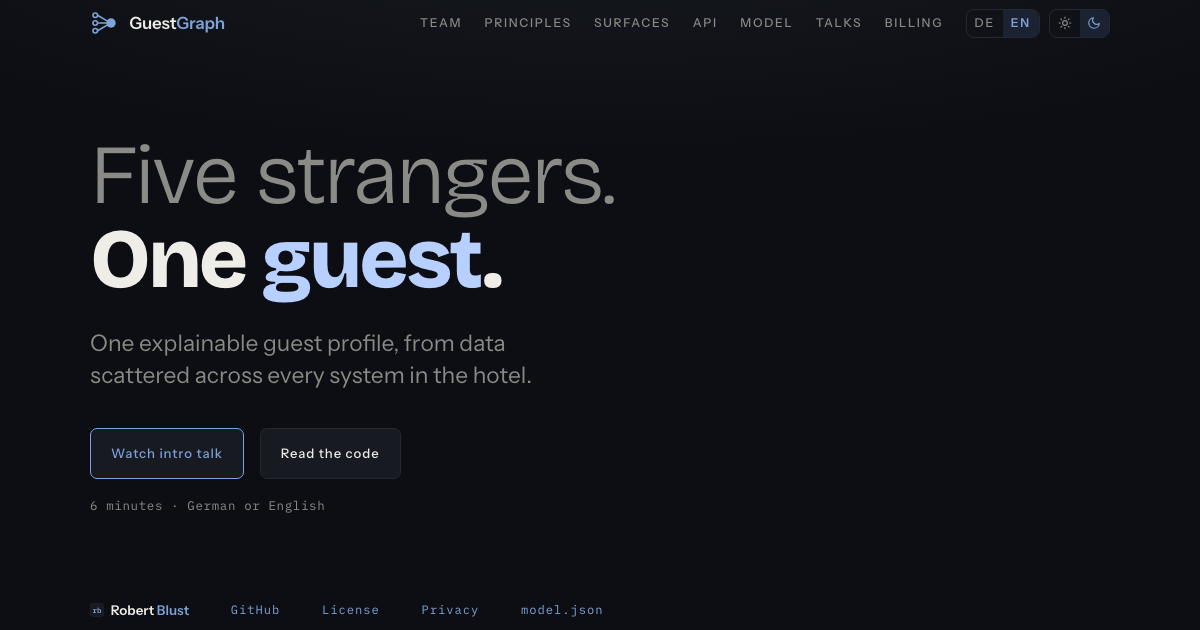
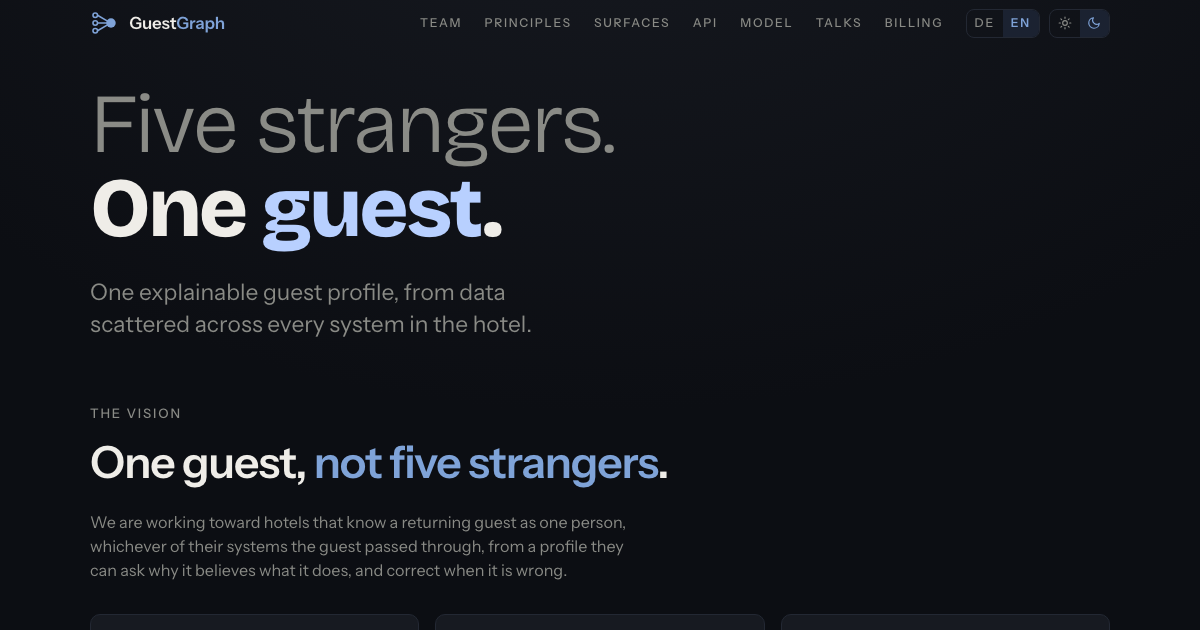
The home page opens on its vision and values
The headline said what GuestGraph is; nothing below it said what the vision behind it is, or
what the seven values are that the model itself states as we-never lines. Under the headline
and its tagline, index.html now carries a vision section and a values section, ported from
blust.ch's and companygraph.io's markup: a kicker, three tiles — Ask opens the chat, See the
model and Read the API link to the pages that show the whole graph and the two APIs — and a
values list. build/pages.mjs wires writeHome to fill both from model.json, with the same
German lookup /principles/ now uses, so the vision's heading and tagline and each value's name
and its never-line read in German too the moment a visitor switches, even before the page's own
kickers and tiles do. The values heading counts from the model rather than being typed by hand,
so it reads seven today and would read eight the day an eighth value is added.

The hero's two buttons and the "6 minutes · German or English" line are gone, not moved: a page
that opens on its vision and values does not need two links competing with them for the same
first screen, and the model and the API are now tiles instead of hero buttons. The talk is
reached from the nav's Talks link rather than a button of its own, so every check string,
og-recipe hide-rule comment and AGENTS.md/README.md sentence that named the removed buttons or
restated the talk's length from index.html is updated to say so. The page's own words — the
[…]

diff --git a/index.html b/index.html
@@ -318,12 +318,36 @@
     <div class="title">
       <h1 data-de="<span class='r70'>Fünf Fremde.</span><span class='rcl'>Ein <em>Gast</em>.</span>"><span class="r70">Five strangers.</span><span class="rcl">One <em>guest</em>.</span></h1>
       <p class="tagline" data-de="Ein erklärbares Gastprofil aus Daten, die über alle Systeme im Hotel verstreut sind.">One explainable guest profile, from data scattered across every system in the hotel.</p>
-      <div class="cta">
-        <a class="btn primary" href="talks/intro/" data-de="Einführungsvortrag ansehen">Watch intro talk</a>
-        <a class="btn" href="https://github.com/guestgraph/engine" data-de="Code lesen">Read the code</a>
-      </div>
-      <p class="ctameta mono" data-de="7 Minuten · Deutsch oder Englisch">6 minutes · German or English</p>
     </div>
+
+    <section class="sec" id="vision">
+      <p class="kicker">The vision</p>
+      <!-- vision:start -->
+      <h2 data-de="Ein Gast, <em>nicht fünf Fremde</em>.">One guest, <em>not five strangers</em>.</h2>
+      <p class="lede" data-de="Wir arbeiten darauf hin, dass Hotels einen wiederkehrenden Gast als eine Person kennen, gleich in welchem ihrer Systeme er erfasst wurde – mit einem Profil, das auf Nachfrage sagt, warum es annimmt, was es annimmt, und das sich korrigieren lässt, wenn es falsch liegt.">We are working toward hotels that know a returning guest as one person, whichever of their systems the guest passed through, from a profile they can ask why it believes what it does, and correct when it is wrong.</p>
+      <!-- vision:end -->
+      <div class="tiles">
+        <button class="tile" type="button" data-chat-open><b>Ask</b><span>An agent that answers only from the model, and names the evidence under each answer.</span><i>Open the chat →</i></button>
+        <a class="tile" href="model/"><b>See the model</b><span>What GuestGraph is, where it is going and how it works, drawn as the graph its files form.</span><i>Open the model →</i></a>
+        <a class="tile" href="api/"><b>Read the API</b><span>Everything the engine does, and the connector that fills it.</span><i>Open the API →</i></a>
+      </div>
+    </section>
+
+    <section class="sec" id="values">
+      <p class="kicker">What we hold to</p>
+      <!-- values:start -->
+      <h2>Seven values, each with the thing <em>we never do</em>.</h2>
+      <div class="values">
+        <a href="principles/#a-match-is-not-trusted-until-it-is-justified"><b data-de="Einem Treffer wird erst vertraut, wenn er begründet ist">A match is not trusted until it is justified</b><span data-de="Wir schalten nie eine Zusammenführung ein, ohne dass ein Mensch ihr ausdrücklich vertraut.">We never switch on a merge that no person asked to trust.</span></a>
+        <a href="principles/#every-merge-can-be-explained-and-undone"><b data-de="Jede Zusammenführung lässt sich erklären und zurücknehmen">Every merge can be explained and undone</b><span data-de="Wir liefern nie ein Verfahren zur Zusammenführung von Gästen aus, dessen Entscheide sich nicht nachlesen und zurücknehmen lassen.">We never ship a way of merging guests whose decisions cannot be read back and undone.</span></a>
+        <a href="principles/#everything-the-engine-does-is-on-its-api"><b data-de="Alles, was die Engine tut, läuft über ihre API">Everything the engine does is on its API</b><span data-de="Wir bauen nie eine Fähigkeit der Engine, die sich nur über einen Job, einen internen Aufruf oder die Datenbank erreichen lässt.">We never build an engine capability that can only be reached through a job, an internal call or the database.</span></a>
+        <a href="principles/#never-drop-what-can-be-parsed"><b data-de="Nie verwerfen, was sich parsen lässt">Never drop what can be parsed</b><span data-de="Wir verwerfen nie einen Datensatz, der sich parsen lässt, weil er anders aussieht, als wir erwartet haben.">We never discard a parseable record because it does not look the way we expected.</span></a>
+        <a href="principles/#store-what-happened-derive-who-it-was"><b data-de="Speichern, was geschah – ableiten, wer es war">Store what happened, derive who it was</b><span data-de="Wir überschreiben nie einen Quelldatensatz, um zu korrigieren, was im Profil eines Gastes steht.">We never overwrite a source record to fix what a guest's profile says.</span></a>
+        <a href="principles/#tenants-never-meet"><b data-de="Mandanten begegnen sich nie">Tenants never meet</b><span data-de="Wir bauen nie einen Weg ein – weder für einen Betreiber noch für uns selbst –, über den sich die Gäste eines Mandanten aus einem anderen lesen lassen.">We never add a path, for an operator or for ourselves, that reads one tenant's guests from another's.</span></a>
+        <a href="principles/#the-core-stays-open"><b data-de="Der Kern bleibt offen">The core stays open</b><span data-de="Wir halten nie eine Fähigkeit des Kerns zurück oder verschlechtern sie, um den gehosteten Dienst zu verkaufen.">We never hold back or degrade a capability of the core to sell the hosted service.</span></a>
+      </div>
+      <!-- values:end -->
+    </section>
 
     <!-- The band runs the full width because five records across is what the argument
          looks like; boxed into a column beside the headline the two competed and

diff --git a/AGENTS.md b/AGENTS.md
@@ -23,7 +23,7 @@ GitHub Pages rebuilds a minute or two after a push, so a change that looks missi
 
 ## One screen, one job
 
-The landing page says what GuestGraph is and sends the visitor to the talk or the code. That is the whole scope of `index.html`. It deliberately makes **no claim about matching behavior, roadmap, or status** — those are owned by the engine repository and go stale here within a slice.
+The landing page says what GuestGraph is, opens on the model's own vision and values, and sends the visitor onward through its tiles — to the chat, to the model or to the API — with the talk one click away in the nav rather than a button of its own. That is the whole scope of `index.html`. It deliberately makes **no claim about matching behavior, roadmap, or status** — those are owned by the engine repository and go stale here within a slice.
 
 This is not hypothetical: the org profile at `guestgraph/.github` once advertised "Core in development" while two slices had shipped, because it restated a roadmap that lives elsewhere. No CI in one repository can catch drift in another.
 
@@ -43,9 +43,11 @@ This narrows the rule above; it does not repeal it. Product status, matching beh
 
 It was written as a bare path first, to keep the footer strictly to data — the strip is set in the data face, and a bare word there looked like navigation in mono. That was the wrong reading of the rule. The strip is not URLs: `Apache 2.0` is a license name and `Robert Blust` is a person's name, and both are links. It is *identifiers that happen to be links*, and a page name belongs in that slot. What settled it is that someone looking for a privacy statement scans for the word, not for a path — on a page that exists to be found by exactly that person, findability beats formal tidiness. The mono rule's real target is nav bars, buttons and prose, which is the scope `verify` encodes.
 
-**The one fact this site restates** is the talk's length ("6 minutes", "7 Minuten" in German, in `index.html`, `talks/index.html` and `README.md`). It is duplicated from the talks repo because a call-to-action needs it inline. If the talk's length changes, both files here change too — it is the only number carrying that obligation, which is what makes it worth naming.
+**The talk has no button of its own on the landing page.** It is reached from the nav's `Talks` link, and from `talks/` and `talks/intro/` directly; the vision section's tiles are the landing page's own call to action now — Ask, See the model, Read the API — so nothing here restates the talk's length.
 
-The billing page carries no call to action and so no copy of the length: it ends on its argument and lets the nav and the footer do the routing. The obligation above stays a two-file obligation, which is the point.
+**The one fact this site restates** is the talk's length ("6 minutes", "7 Minuten" in German, in `talks/index.html` and `README.md`). It is duplicated from the talks repo because a call-to-action needs it inline there. If the talk's length changes, both files change too — it is the only number carrying that obligation, which is what makes it worth naming.
+
+The billing page carries no call to action either, for the same reason the landing page no longer does: it ends on its argument and lets the nav and the footer do the routing.
 
 ## Constraints
 

diff --git a/README.md b/README.md
@@ -107,7 +107,7 @@ npm run sitemap:check              # are those dates still what git says?
 
 ## What it says, and what it deliberately does not
 
-One screen, one job: say what GuestGraph is and send the visitor to the talk or the code. The landing page carries the title, the hook, and two links — nothing else. Everything a visitor would ask next is answered in the [six-minute talk](https://guestgraph.io/talks/intro/), which is a better medium for it than a scrolling page of claims.
+The landing page opens on the title and the hook, then on the model's own vision and values, in a `#vision` and a `#values` section `build/pages.mjs` writes from `model.json` with `@robertblust/design/render/home`, each value's German name and never-line held to the same `build/principles.de.json` `/principles/` reads. Its tiles send the visitor onward — to the chat, to the model or to the API — and the talk is reached from the nav rather than a button here; it is a better medium for what a visitor would ask next than a scrolling page of claims, and the [six-minute talk](https://guestgraph.io/talks/intro/) is where that is answered.
 
 That is also why it makes no claim about matching behavior, roadmap, or status. Those live where they are maintained — in the core repository and in [`docs/matching.md`](https://github.com/guestgraph/engine/blob/main/docs/matching.md) — so a change there cannot leave this page quietly wrong.
 
